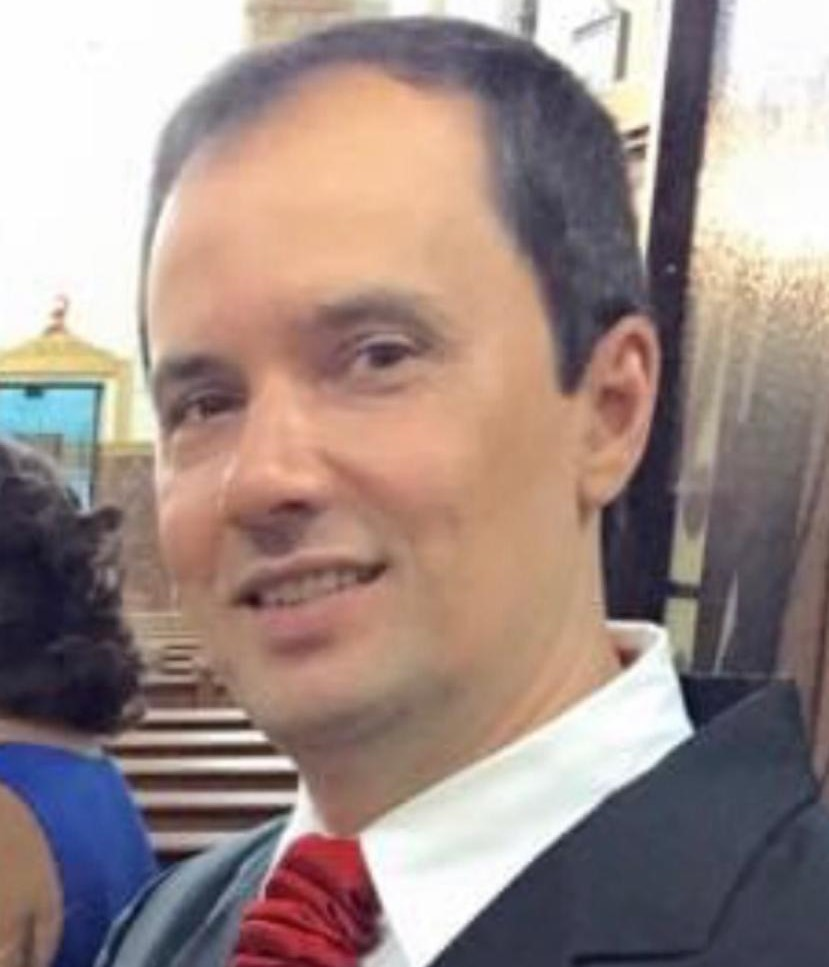
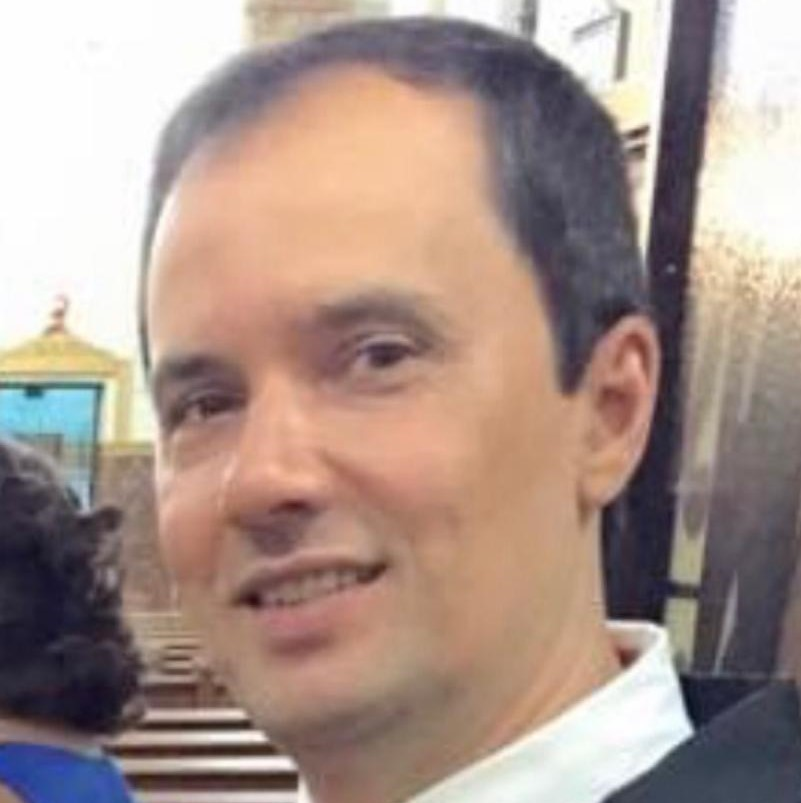
sandra

diff --git a/index.html b/index.html
@@ -549,7 +549,7 @@
 
           <div class="col-lg-4" data-aos="fade-up" data-aos-delay="100">
             <div class="member">
-              <img src="assets/img/sandra caixa.jpeg" class="img-fluid" alt="">
+              <img src="assets/img/sandra.jpg" class="img-fluid" alt="">
               <div class="member-info">
                 <div class="member-info-content">
                   <h4>Sandra de Matos Calza</h4>
@@ -627,7 +627,7 @@
               <img src="assets/img/chefs/chefs-3.jpg" class="img-fluid" alt="">
               <div class="member-info">
                 <div class="member-info-content">
-                  <h4>Ozilton de Jesus</h4>
+                  <h4>Zito</h4>
                   <span>Padeiro</span>
                 </div>
                 <div class="social">
